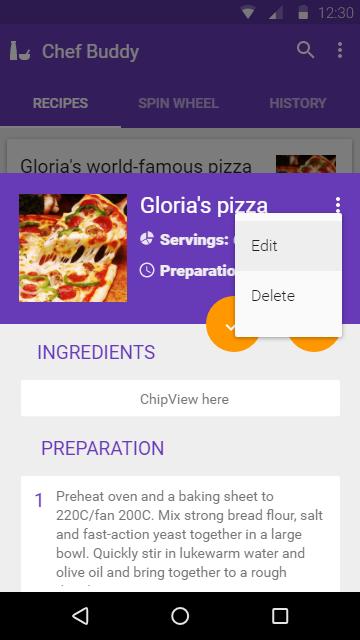
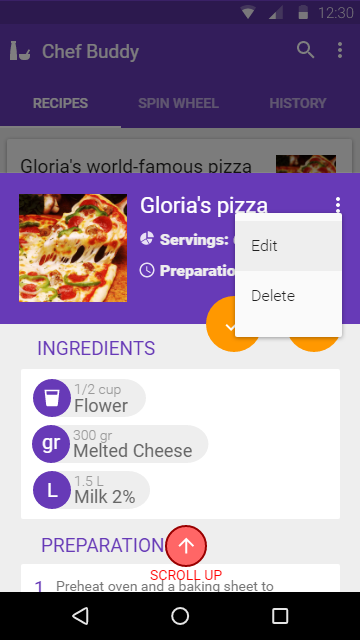
Recipe Detail: Menu layout, updated.

diff --git a/index.html b/index.html
@@ -1,2 +1,2 @@
 <html xmlns="http://www.w3.org/1999/xhtml" xmlns:p="http://www.evolus.vn/Namespace/Pencil" xmlns:html="http://www.w3.org/1999/xhtml"><head><meta http-equiv="Content-Type" content="text/html; charset=UTF-8" />
-<title>ChefBuddy v3</title><script type="text/javascript" src="Resources/Script.js"></script><link rel="stylesheet" type="text/css" href="Resources/Style.css" /><meta name="viewport" content="width=device-width, initial-scale=1, user-scalable=no, maximum-scale=1.0" /></head><body><div style="display: none;" id="page"><div id="content"><h1 id="documentTitle"><span>ChefBuddy v3</span></h1><div class="Page" id="home_recipes_page"><div class="Texts"><h2 class="Title">Home: Recipes</h2><p class="Note"></p><div>Home view. <br /><br />This page displays a list of recipes.</div><p></p></div><div class="Image"><img src="pages\home_recipes.png" width="360" height="641" usemap="#map_home_recipes" id="home_recipes_page_image" /><div class="ImageFooter"> </div><map name="map_home_recipes"><area shape="rect" coords="294.60009765625,523.6000366210938,350.60009765625,579.600036621094" href="#editadd_recipe_page" title="Go to page 'Edit/Add Recipe'" /><area shape="rect" coords="294,38,318,62" href="#home_recipes_search_page" title="Go to page 'Home: Recipes: Search'" /><area shape="rect" coords="328,38,352,62" href="#home_menu_page" title="Go to page 'Home: Menu'" /><area shape="rect" coords="0,80,360,128" href="#home_spin_wheel_page" title="Go to page 'Home: Spin wheel'" /><area shape="rect" coords="6,139,352.279998779297,352.919982910156" href="#recipe_detail_page" title="Go to page 'Recipe Detail'" /></map></div></div><div class="Page" id="home_recipes_search_page"><div class="Texts"><h2 class="Title">Home: Recipes: Search</h2><p class="Note"></p><div><div>Search page:<br /><br />A white ripple spawns from the center of where the search icon used to be, covering the Toolbar. The TabView dissapears. The app logo changes to a back arrow, "Search..." hint appears.</div><div>Keyboard is displayed. Snackbar/Toast appears saying: "Search by recipe name or ingredients"</div> </div><p></p></div><div class="Image"><img src="pages\home_recipes_search.png" width="360" height="640" usemap="#map_home_recipes_search" id="home_recipes_search_page_image" /><div class="ImageFooter"> </div><map name="map_home_recipes_search"><area shape="rect" coords="8,39,32,63" href="#home_recipes_page" title="Go to page 'Home: Recipes'" /></map></div></div><div class="Page" id="recipe_detail_page"><div class="Texts"><h2 class="Title">Recipe Detail</h2><p class="Note"></p><div> <div>Recipe detail page.<br /><br />Slides in from below, obscuring background, can be fully scrolled up.</div><div><br /><br /></div><div>Share button generates a pdf file, shareable through Whatsapp, Email.<br /><br /></div><div><br /><br /></div><div><div>Check Button hint: <span style="font-size: 9pt;">"Cooked this today". When clicked, records the recipe as it has been cooked the current day, also icon changes to an X.</span></div></div></div><p></p></div><div class="Image"><img src="pages\recipe_detail.png" width="360" height="640" usemap="#map_recipe_detail" id="recipe_detail_page_image" /><div class="ImageFooter"> </div><map name="map_recipe_detail"><area shape="rect" coords="166,526,206,566" href="#recipe_detail_2_page" title="Go to page 'Recipe Detail 2'" /><area shape="rect" coords="0,592,360,640" href="#home_recipes_page" title="Go to page 'Home: Recipes'" /><area shape="rect" coords="326,193,350,217" href="#recipe_detail_menu_page" title="Go to page 'Recipe Detail: Menu'" /><area shape="rect" coords="0,0.3052825927734375,360,172.937286376953" href="#home_recipes_page" title="Go to page 'Home: Recipes'" /></map></div></div><div class="Page" id="recipe_detail_2_page"><div class="Texts"><h2 class="Title">Recipe Detail 2</h2><p class="Note"></p><div> <div>Recipe detail page.<br /><br />Slides in from below, obscuring background, can be fully scrolled up.</div><div><br /><br /></div><div>Share button generates a pdf file, shareable through Whatsapp, Email.<br /><br /></div><div><br /><br /></div><div><div>Check Button hint: <span style="font-size: 9pt;">"Cooked this today". When clicked, records the recipe as it has been cooked the current day, also icon changes to an X.</span></div></div></div><p></p></div><div class="Image"><img src="pages\recipe_detail_2.png" width="360" height="640" usemap="#map_recipe_detail_2" id="recipe_detail_2_page_image" /><div class="ImageFooter"> </div><map name="map_recipe_detail_2"><area shape="rect" coords="171,214,211,254" href="#recipe_detail_page" title="Go to page 'Recipe Detail'" /><area shape="rect" coords="0,592,360,640" href="#recipe_detail_page" title="Go to page 'Recipe Detail'" /><area shape="rect" coords="326,44,350,68" href="#recipe_detail_menu_page" title="Go to page 'Recipe Detail: Menu'" /><area shape="rect" coords="35,299,325,429" href="#recipe_detail_view_image_page" title="Go to page 'Recipe Detail: View Image'" /></map></div></div><div class="Page" id="recipe_detail_view_image_page"><div class="Texts"><h2 class="Title">Recipe Detail: View Image</h2><p class="Note"></p><div> <div>Can zoom in/swipe right/left for next/prev image<br /><br /></div><div><br /><br /></div></div><p></p></div><div class="Image"><img src="pages\recipe_detail_view_image.png" width="360" height="640" usemap="#map_recipe_detail_view_image" id="recipe_detail_view_image_page_image" /><div class="ImageFooter"> </div><map name="map_recipe_detail_view_image"><area shape="rect" coords="0,592,360,640" href="#recipe_detail_2_page" title="Go to page 'Recipe Detail 2'" /><area shape="rect" coords="8,38,32,62" href="#recipe_detail_2_page" title="Go to page 'Recipe Detail 2'" /></map></div></div><div class="Page" id="recipe_detail_menu_page"><div class="Texts"><h2 class="Title">Recipe Detail: Menu</h2><p class="Note"></p><div> <div>Recipe detail toolbar menu.</div></div><p></p></div><div class="Image"><img src="pages\recipe_detail_menu.png" width="360" height="640" usemap="#map_recipe_detail_menu" id="recipe_detail_menu_page_image" /><div class="ImageFooter"> </div><map name="map_recipe_detail_menu"><area shape="rect" coords="235,213,342,337" href="#editadd_recipe_page" title="Go to page 'Edit/Add Recipe'" /><area shape="rect" coords="0,592,360,640" href="#recipe_detail_page" title="Go to page 'Recipe Detail'" /><area shape="rect" coords="1,110,359,603" href="#recipe_detail_page" title="Go to page 'Recipe Detail'" /></map></div></div><div class="Page" id="editadd_recipe_page"><div class="Texts"><h2 class="Title">Edit/Add Recipe</h2><p class="Note"></p><div> <div>Manual recipe add/edit page.</div><div><br /><br /></div><div><div>Chipview libraries: <span style="font-size: 9pt;">https://android-arsenal.com/tag/197</span></div><div>https://github.com/pchmn/MaterialChipsInput</div></div><div><br /><br /></div><div>UI: https://cdn.dribbble.com/users/60155/</div><div>screenshots/1750767/temp_dribbble.jpg<br /><br /></div></div><p></p></div><div class="Image"><img src="pages\editadd_recipe.png" width="360" height="640" usemap="#map_editadd_recipe" id="editadd_recipe_page_image" /><div class="ImageFooter"> </div><map name="map_editadd_recipe"><area shape="rect" coords="40,462,267.216003417969,500" href="#editadd_recipe_add_ingredient_page" title="Go to page 'Edit/Add Recipe: Add Ingredient'" /><area shape="rect" coords="162,520,202,560" href="#editadd_recipe_2_page" title="Go to page 'Edit/Add Recipe 2'" /><area shape="rect" coords="13,39,37,63" href="#recipe_detail_page" title="Go to page 'Recipe Detail'" /><area shape="rect" coords="321.240234375,38.89599609375,345.240234375,62.89599609375" href="#recipe_detail_page" title="Go to page 'Recipe Detail'" /></map></div></div><div class="Page" id="editadd_recipe_add_ingredient_page"><div class="Texts"><h2 class="Title">Edit/Add Recipe: Add Ingredient</h2><p class="Note"></p><div> <div>Manual recipe add/edit page.</div><div><br /><br /></div><div><div>Chipview libraries: <span style="font-size: 9pt;">https://android-arsenal.com/tag/197</span></div><div>https://github.com/pchmn/MaterialChipsInput</div></div><div><br /><br /></div><div>UI: https://cdn.dribbble.com/users/60155/</div><div>screenshots/1750767/temp_dribbble.jpg<br /><br /></div></div><p></p></div><div class="Image"><img src="pages\editadd_recipe_add_ingredient.png" width="360" height="640" usemap="#map_editadd_recipe_add_ingredient" id="editadd_recipe_add_ingredient_page_image" /><div class="ImageFooter"> </div><map name="map_editadd_recipe_add_ingredient"><area shape="rect" coords="0,24,360,600.799987792969" href="#editadd_recipe_page" title="Go to page 'Edit/Add Recipe'" /><area shape="rect" coords="162,520,202,560" href="#editadd_recipe_2_page" title="Go to page 'Edit/Add Recipe 2'" /><area shape="rect" coords="0,592,360,640" href="#editadd_recipe_page" title="Go to page 'Edit/Add Recipe'" /><area shape="rect" coords="13,39,37,63" href="#recipe_detail_page" title="Go to page 'Recipe Detail'" /><area shape="rect" coords="321.240234375,38.89599609375,345.240234375,62.89599609375" href="#recipe_detail_page" title="Go to page 'Recipe Detail'" /></map></div></div><div class="Page" id="editadd_recipe_2_page"><div class="Texts"><h2 class="Title">Edit/Add Recipe 2</h2><p class="Note"></p><div> <div>Manual recipe add/edit page.</div><div><br /><br /></div><div><div>Chipview libraries: <span style="font-size: 9pt;">https://android-arsenal.com/tag/197</span></div><div>https://github.com/pchmn/MaterialChipsInput</div></div><div><br /><br /></div><div>UI: https://cdn.dribbble.com/users/60155/</div><div>screenshots/1750767/temp_dribbble.jpg<br /><br /></div></div><p></p></div><div class="Image"><img src="pages\editadd_recipe_2.png" width="360" height="640" usemap="#map_editadd_recipe_2" id="editadd_recipe_2_page_image" /><div class="ImageFooter"> </div><map name="map_editadd_recipe_2"><area shape="rect" coords="0,592,360,640" href="#recipe_detail_page" title="Go to page 'Recipe Detail'" /><area shape="rect" coords="160,64,200,104" href="#editadd_recipe_page" title="Go to page 'Edit/Add Recipe'" /><area shape="rect" coords="232,527,328,563" href="#editadd_recipe_add_image_page" title="Go to page 'Edit/Add Recipe: Add Image'" /><area shape="rect" coords="13,39,37,63" href="#recipe_detail_page" title="Go to page 'Recipe Detail'" /><area shape="rect" coords="321.240234375,38.89599609375,345.240234375,62.89599609375" href="#recipe_detail_page" title="Go to page 'Recipe Detail'" /></map></div></div><div class="Page" id="editadd_recipe_add_image_page"><div class="Texts"><h2 class="Title">Edit/Add Recipe: Add Image</h2><p class="Note"></p><div> <div>Select camera/gallery dialog.</div></div><p></p></div><div class="Image"><img src="pages\editadd_recipe_add_image.png" width="360" height="640" usemap="#map_editadd_recipe_add_image" id="editadd_recipe_add_image_page_image" /><div class="ImageFooter"> </div><map name="map_editadd_recipe_add_image"><area shape="rect" coords="0,24,360,600.799987792969" href="#editadd_recipe_page" title="Go to page 'Edit/Add Recipe'" /><area shape="rect" coords="13,40,37,64" href="#recipe_detail_page" title="Go to page 'Recipe Detail'" /><area shape="rect" coords="321.239990234375,38.89599609375,345.239990234375,62.89599609375" href="#recipe_detail_page" title="Go to page 'Recipe Detail'" /><area shape="rect" coords="0,592,360,640" href="#editadd_recipe_page" title="Go to page 'Edit/Add Recipe'" /></map></div></div><div class="Page" id="home_menu_page"><div class="Texts"><h2 class="Title">Home: Menu</h2><p class="Note"></p><div>App toolbar menu</div><p></p></div><div class="Image"><img src="pages\home_menu.png" width="360" height="641" usemap="#map_home_menu" id="home_menu_page_image" /><div class="ImageFooter"> </div><map name="map_home_menu"><area shape="rect" coords="173,60,341,176" href="#settings_page" title="Go to page 'Settings'" /><area shape="rect" coords="0,80,360,128" href="#home_spin_wheel_page" title="Go to page 'Home: Spin wheel'" /><area shape="rect" coords="1,1,358.640014648438,639.039978027344" href="#home_recipes_page" title="Go to page 'Home: Recipes'" /></map></div></div><div class="Page" id="home_spin_wheel_page"><div class="Texts"><h2 class="Title">Home: Spin wheel</h2><p class="Note"></p><div>This page displays a wheel containing recipes, when activated, the wheel spins and randomly selects a recipe.<br /><br />The recipes can be edited. <br /><br />Max 10 recipes. </div><p></p></div><div class="Image"><img src="pages\home_spin_wheel.png" width="360" height="647" usemap="#map_home_spin_wheel" id="home_spin_wheel_page_image" /><div class="ImageFooter"> </div><map name="map_home_spin_wheel"><area shape="rect" coords="329,237,353,261" href="#home_spinwheel_edit_page" title="Go to page 'Home: Spinwheel: Edit'" /><area shape="rect" coords="0,172,360,220" href="#home_history_page" title="Go to page 'Home: History'" /></map></div></div><div class="Page" id="home_spinwheel_edit_page"><div class="Texts"><h2 class="Title">Home: Spinwheel: Edit</h2><p class="Note"></p><div>Tapping on the Edit button opens a dialog where the recipes in the spinwheel can be set. This number should be limited to a max amount (10 recipes max?) <br /><br /><br /><br /><div>https://github.com/LukeDeighton/WheelView</div><div>https://code.tutsplus.com/tutorials/android-sdk-creating-a-rotating-dialer--mobile-8868</div></div><p></p></div><div class="Image"><img src="pages\home_spinwheel_edit.png" width="361" height="647" usemap="#map_home_spinwheel_edit" id="home_spinwheel_edit_page_image" /><div class="ImageFooter"> </div><map name="map_home_spinwheel_edit"><area shape="rect" coords="1,2,361,600" href="#home_spin_wheel_page" title="Go to page 'Home: Spin wheel'" /><area shape="rect" coords="330,237,354,261" href="#home_spinwheel_edit_page" title="Go to page 'Home: Spinwheel: Edit'" /><area shape="rect" coords="1,172,361,220" href="#home_history_page" title="Go to page 'Home: History'" /></map></div></div><div class="Page" id="home_history_page"><div class="Texts"><h2 class="Title">Home: History</h2><p class="Note"></p><div>This page displays a calendar which shows the recipes made each day.<div><br /><br /><div>CALENDAR: https://www.prolificinteractive.com/2015/02/17/material-calendarview/</div><div>https://github.com/prolificinteractive/material-calendarview</div><div><br /><br /></div><div>NOTE: Calendar card background should be white #FFF</div></div></div><p></p></div><div class="Image"><img src="pages\home_history.png" width="360" height="647" usemap="#map_home_history" id="home_history_page_image" /><div class="ImageFooter"> </div><map name="map_home_history"><area shape="rect" coords="210,336,258,384" href="#home_history_day_detail_page" title="Go to page 'Home: History: Day detail'" /><area shape="rect" coords="158,336,206,384" href="#home_history_set_recipe_page" title="Go to page 'Home: History: Set Recipe'" /><area shape="rect" coords="0,172,360,220" href="#home_recipes_page" title="Go to page 'Home: Recipes'" /></map></div></div><div class="Page" id="home_history_day_detail_page"><div class="Texts"><h2 class="Title">Home: History: Day detail</h2><p class="Note"></p><div>Tapping on a day when a recipe had been cooked. Circular expansion animation occurs, image should be blurry.. or with a frosted-like effect?</div><p></p></div><div class="Image"><img src="pages\home_history_day_detail.png" width="360" height="647" usemap="#map_home_history_day_detail" id="home_history_day_detail_page_image" /><div class="ImageFooter"> </div><map name="map_home_history_day_detail"><area shape="rect" coords="0,599,360,647" href="#home_history_page" title="Go to page 'Home: History'" /><area shape="rect" coords="291,285,315,309" href="#home_history_set_recipe_page" title="Go to page 'Home: History: Set Recipe'" /><area shape="rect" coords="210,336,258,384" href="#home_history_day_detail_page" title="Go to page 'Home: History: Day detail'" /><area shape="rect" coords="158,336,206,384" href="#home_history_set_recipe_page" title="Go to page 'Home: History: Set Recipe'" /><area shape="rect" coords="0,172,360,220" href="#home_recipes_page" title="Go to page 'Home: Recipes'" /><area shape="rect" coords="0,0,360,220" href="#home_history_page" title="Go to page 'Home: History'" /><area shape="rect" coords="1,1,358.640014648438,639.039978027344" href="#home_history_page" title="Go to page 'Home: History'" /></map></div></div><div class="Page" id="home_history_set_recipe_page"><div class="Texts"><h2 class="Title">Home: History: Set Recipe</h2><p class="Note"></p><div>Set/Edit a Recipe on a specific day</div><p></p></div><div class="Image"><img src="pages\home_history_set_recipe.png" width="360" height="647" usemap="#map_home_history_set_recipe" id="home_history_set_recipe_page_image" /><div class="ImageFooter"> </div><map name="map_home_history_set_recipe"><area shape="rect" coords="0,599,360,647" href="#home_history_page" title="Go to page 'Home: History'" /><area shape="rect" coords="0,0,360,611.799987792969" href="#home_history_page" title="Go to page 'Home: History'" /><area shape="rect" coords="210,336,258,384" href="#home_history_day_detail_page" title="Go to page 'Home: History: Day detail'" /><area shape="rect" coords="158,336,206,384" href="#home_history_set_recipe_page" title="Go to page 'Home: History: Set Recipe'" /><area shape="rect" coords="0,172,360,220" href="#home_recipes_page" title="Go to page 'Home: Recipes'" /></map></div></div><div class="Page" id="settings_page"><div class="Texts"><h2 class="Title">Settings</h2><p class="Note"></p><div>Cheff Buddy Settings page</div><p></p></div><div class="Image"><img src="pages\settings.png" width="360" height="641" usemap="#map_settings" id="settings_page_image" /><div class="ImageFooter"> </div><map name="map_settings"><area shape="rect" coords="16,41,40,65" href="#home_recipes_page" title="Go to page 'Home: Recipes'" /><area shape="rect" coords="16,98.921875,207,120.921875" href="#settings_backup_page" title="Go to page 'Settings: Backup'" /><area shape="rect" coords="0,592.921875,360,640.921875" href="#home_recipes_page" title="Go to page 'Home: Recipes'" /></map></div></div><div class="Page" id="settings_backup_page"><div class="Texts"><h2 class="Title">Settings: Backup</h2><p class="Note"></p><div>Settings for backing up app data.<div><br /><br /></div><div>Local backups will occur daily.<br /><br />Google drive cloud-based backups can be configured -off by default- to occur daily, weekly or monthly.<br /><br />Google drive backups can be set to occur only over Wi-Fi.</div></div><p></p></div><div class="Image"><img src="pages\settings_backup.png" width="360" height="644" usemap="#map_settings_backup" id="settings_backup_page_image" /><div class="ImageFooter"> </div><map name="map_settings_backup"><area shape="rect" coords="15,40,39,64" href="#settings_page" title="Go to page 'Settings'" /><area shape="rect" coords="0,595.921875,360,643.921875" href="#settings_page" title="Go to page 'Settings'" /></map></div></div><div id="navigator"><div class="NavLink" id="prevLink"><div class="Wrapper"><a href="#"> </a></div></div><div class="NavLink NavNextLink" id="nextLink"><div class="Wrapper"><a href="#"> </a></div></div></div></div><div id="footer"></div></div></body></html>
+<title>ChefBuddy v3</title><script type="text/javascript" src="Resources/Script.js"></script><link rel="stylesheet" type="text/css" href="Resources/Style.css" /><meta name="viewport" content="width=device-width, initial-scale=1, user-scalable=no, maximum-scale=1.0" /></head><body><div style="display: none;" id="page"><div id="content"><h1 id="documentTitle"><span>ChefBuddy v3</span></h1><div class="Page" id="home_recipes_page"><div class="Texts"><h2 class="Title">Home: Recipes</h2><p class="Note"></p><div>Home view. <br /><br />This page displays a list of recipes.</div><p></p></div><div class="Image"><img src="pages\home_recipes.png" width="360" height="641" usemap="#map_home_recipes" id="home_recipes_page_image" /><div class="ImageFooter"> </div><map name="map_home_recipes"><area shape="rect" coords="294.60009765625,523.6000366210938,350.60009765625,579.600036621094" href="#editadd_recipe_page" title="Go to page 'Edit/Add Recipe'" /><area shape="rect" coords="294,38,318,62" href="#home_recipes_search_page" title="Go to page 'Home: Recipes: Search'" /><area shape="rect" coords="328,38,352,62" href="#home_menu_page" title="Go to page 'Home: Menu'" /><area shape="rect" coords="0,80,360,128" href="#home_spin_wheel_page" title="Go to page 'Home: Spin wheel'" /><area shape="rect" coords="6,139,352.279998779297,352.919982910156" href="#recipe_detail_page" title="Go to page 'Recipe Detail'" /></map></div></div><div class="Page" id="home_recipes_search_page"><div class="Texts"><h2 class="Title">Home: Recipes: Search</h2><p class="Note"></p><div><div>Search page:<br /><br />A white ripple spawns from the center of where the search icon used to be, covering the Toolbar. The TabView dissapears. The app logo changes to a back arrow, "Search..." hint appears.</div><div>Keyboard is displayed. Snackbar/Toast appears saying: "Search by recipe name or ingredients"</div> </div><p></p></div><div class="Image"><img src="pages\home_recipes_search.png" width="360" height="640" usemap="#map_home_recipes_search" id="home_recipes_search_page_image" /><div class="ImageFooter"> </div><map name="map_home_recipes_search"><area shape="rect" coords="8,39,32,63" href="#home_recipes_page" title="Go to page 'Home: Recipes'" /></map></div></div><div class="Page" id="recipe_detail_page"><div class="Texts"><h2 class="Title">Recipe Detail</h2><p class="Note"></p><div> <div>Recipe detail page.<br /><br />Slides in from below, obscuring background, can be fully scrolled up.</div><div><br /><br /></div><div>Share button generates a pdf file, shareable through Whatsapp, Email.<br /><br /></div><div><br /><br /></div><div><div>Check Button hint: <span style="font-size: 9pt;">"Cooked this today". When clicked, records the recipe as it has been cooked the current day, also icon changes to an X.</span></div></div></div><p></p></div><div class="Image"><img src="pages\recipe_detail.png" width="360" height="640" usemap="#map_recipe_detail" id="recipe_detail_page_image" /><div class="ImageFooter"> </div><map name="map_recipe_detail"><area shape="rect" coords="166,526,206,566" href="#recipe_detail_2_page" title="Go to page 'Recipe Detail 2'" /><area shape="rect" coords="0,592,360,640" href="#home_recipes_page" title="Go to page 'Home: Recipes'" /><area shape="rect" coords="326,193,350,217" href="#recipe_detail_menu_page" title="Go to page 'Recipe Detail: Menu'" /><area shape="rect" coords="0,0.3052825927734375,360,172.937286376953" href="#home_recipes_page" title="Go to page 'Home: Recipes'" /></map></div></div><div class="Page" id="recipe_detail_2_page"><div class="Texts"><h2 class="Title">Recipe Detail 2</h2><p class="Note"></p><div> <div>Recipe detail page.<br /><br />Slides in from below, obscuring background, can be fully scrolled up.</div><div><br /><br /></div><div>Share button generates a pdf file, shareable through Whatsapp, Email.<br /><br /></div><div><br /><br /></div><div><div>Check Button hint: <span style="font-size: 9pt;">"Cooked this today". When clicked, records the recipe as it has been cooked the current day, also icon changes to an X.</span></div></div></div><p></p></div><div class="Image"><img src="pages\recipe_detail_2.png" width="360" height="640" usemap="#map_recipe_detail_2" id="recipe_detail_2_page_image" /><div class="ImageFooter"> </div><map name="map_recipe_detail_2"><area shape="rect" coords="171,214,211,254" href="#recipe_detail_page" title="Go to page 'Recipe Detail'" /><area shape="rect" coords="0,592,360,640" href="#recipe_detail_page" title="Go to page 'Recipe Detail'" /><area shape="rect" coords="326,44,350,68" href="#recipe_detail_menu_page" title="Go to page 'Recipe Detail: Menu'" /><area shape="rect" coords="35,299,325,429" href="#recipe_detail_view_image_page" title="Go to page 'Recipe Detail: View Image'" /></map></div></div><div class="Page" id="recipe_detail_view_image_page"><div class="Texts"><h2 class="Title">Recipe Detail: View Image</h2><p class="Note"></p><div> <div>Can zoom in/swipe right/left for next/prev image<br /><br /></div><div><br /><br /></div></div><p></p></div><div class="Image"><img src="pages\recipe_detail_view_image.png" width="360" height="640" usemap="#map_recipe_detail_view_image" id="recipe_detail_view_image_page_image" /><div class="ImageFooter"> </div><map name="map_recipe_detail_view_image"><area shape="rect" coords="0,592,360,640" href="#recipe_detail_2_page" title="Go to page 'Recipe Detail 2'" /><area shape="rect" coords="8,38,32,62" href="#recipe_detail_2_page" title="Go to page 'Recipe Detail 2'" /></map></div></div><div class="Page" id="recipe_detail_menu_page"><div class="Texts"><h2 class="Title">Recipe Detail: Menu</h2><p class="Note"></p><div> <div>Recipe detail toolbar menu.</div></div><p></p></div><div class="Image"><img src="pages\recipe_detail_menu.png" width="360" height="640" usemap="#map_recipe_detail_menu" id="recipe_detail_menu_page_image" /><div class="ImageFooter"> </div><map name="map_recipe_detail_menu"><area shape="rect" coords="235,213,342,337" href="#editadd_recipe_page" title="Go to page 'Edit/Add Recipe'" /><area shape="rect" coords="166,526,206,566" href="#recipe_detail_2_page" title="Go to page 'Recipe Detail 2'" /><area shape="rect" coords="0,592,360,640" href="#home_recipes_page" title="Go to page 'Home: Recipes'" /><area shape="rect" coords="326,193,350,217" href="#recipe_detail_menu_page" title="Go to page 'Recipe Detail: Menu'" /><area shape="rect" coords="0,0.3052825927734375,360,172.937286376953" href="#home_recipes_page" title="Go to page 'Home: Recipes'" /></map></div></div><div class="Page" id="editadd_recipe_page"><div class="Texts"><h2 class="Title">Edit/Add Recipe</h2><p class="Note"></p><div> <div>Manual recipe add/edit page.</div><div><br /><br /></div><div><div>Chipview libraries: <span style="font-size: 9pt;">https://android-arsenal.com/tag/197</span></div><div>https://github.com/pchmn/MaterialChipsInput</div></div><div><br /><br /></div><div>UI: https://cdn.dribbble.com/users/60155/</div><div>screenshots/1750767/temp_dribbble.jpg<br /><br /></div></div><p></p></div><div class="Image"><img src="pages\editadd_recipe.png" width="360" height="640" usemap="#map_editadd_recipe" id="editadd_recipe_page_image" /><div class="ImageFooter"> </div><map name="map_editadd_recipe"><area shape="rect" coords="40,462,267.216003417969,500" href="#editadd_recipe_add_ingredient_page" title="Go to page 'Edit/Add Recipe: Add Ingredient'" /><area shape="rect" coords="162,520,202,560" href="#editadd_recipe_2_page" title="Go to page 'Edit/Add Recipe 2'" /><area shape="rect" coords="13,39,37,63" href="#recipe_detail_page" title="Go to page 'Recipe Detail'" /><area shape="rect" coords="321.240234375,38.89599609375,345.240234375,62.89599609375" href="#recipe_detail_page" title="Go to page 'Recipe Detail'" /></map></div></div><div class="Page" id="editadd_recipe_add_ingredient_page"><div class="Texts"><h2 class="Title">Edit/Add Recipe: Add Ingredient</h2><p class="Note"></p><div> <div>Manual recipe add/edit page.</div><div><br /><br /></div><div><div>Chipview libraries: <span style="font-size: 9pt;">https://android-arsenal.com/tag/197</span></div><div>https://github.com/pchmn/MaterialChipsInput</div></div><div><br /><br /></div><div>UI: https://cdn.dribbble.com/users/60155/</div><div>screenshots/1750767/temp_dribbble.jpg<br /><br /></div></div><p></p></div><div class="Image"><img src="pages\editadd_recipe_add_ingredient.png" width="360" height="640" usemap="#map_editadd_recipe_add_ingredient" id="editadd_recipe_add_ingredient_page_image" /><div class="ImageFooter"> </div><map name="map_editadd_recipe_add_ingredient"><area shape="rect" coords="0,24,360,600.799987792969" href="#editadd_recipe_page" title="Go to page 'Edit/Add Recipe'" /><area shape="rect" coords="162,520,202,560" href="#editadd_recipe_2_page" title="Go to page 'Edit/Add Recipe 2'" /><area shape="rect" coords="0,592,360,640" href="#editadd_recipe_page" title="Go to page 'Edit/Add Recipe'" /><area shape="rect" coords="13,39,37,63" href="#recipe_detail_page" title="Go to page 'Recipe Detail'" /><area shape="rect" coords="321.240234375,38.89599609375,345.240234375,62.89599609375" href="#recipe_detail_page" title="Go to page 'Recipe Detail'" /></map></div></div><div class="Page" id="editadd_recipe_2_page"><div class="Texts"><h2 class="Title">Edit/Add Recipe 2</h2><p class="Note"></p><div> <div>Manual recipe add/edit page.</div><div><br /><br /></div><div><div>Chipview libraries: <span style="font-size: 9pt;">https://android-arsenal.com/tag/197</span></div><div>https://github.com/pchmn/MaterialChipsInput</div></div><div><br /><br /></div><div>UI: https://cdn.dribbble.com/users/60155/</div><div>screenshots/1750767/temp_dribbble.jpg<br /><br /></div></div><p></p></div><div class="Image"><img src="pages\editadd_recipe_2.png" width="360" height="640" usemap="#map_editadd_recipe_2" id="editadd_recipe_2_page_image" /><div class="ImageFooter"> </div><map name="map_editadd_recipe_2"><area shape="rect" coords="0,592,360,640" href="#recipe_detail_page" title="Go to page 'Recipe Detail'" /><area shape="rect" coords="160,64,200,104" href="#editadd_recipe_page" title="Go to page 'Edit/Add Recipe'" /><area shape="rect" coords="232,527,328,563" href="#editadd_recipe_add_image_page" title="Go to page 'Edit/Add Recipe: Add Image'" /><area shape="rect" coords="13,39,37,63" href="#recipe_detail_page" title="Go to page 'Recipe Detail'" /><area shape="rect" coords="321.240234375,38.89599609375,345.240234375,62.89599609375" href="#recipe_detail_page" title="Go to page 'Recipe Detail'" /></map></div></div><div class="Page" id="editadd_recipe_add_image_page"><div class="Texts"><h2 class="Title">Edit/Add Recipe: Add Image</h2><p class="Note"></p><div> <div>Select camera/gallery dialog.</div></div><p></p></div><div class="Image"><img src="pages\editadd_recipe_add_image.png" width="360" height="640" usemap="#map_editadd_recipe_add_image" id="editadd_recipe_add_image_page_image" /><div class="ImageFooter"> </div><map name="map_editadd_recipe_add_image"><area shape="rect" coords="0,24,360,600.799987792969" href="#editadd_recipe_page" title="Go to page 'Edit/Add Recipe'" /><area shape="rect" coords="13,40,37,64" href="#recipe_detail_page" title="Go to page 'Recipe Detail'" /><area shape="rect" coords="321.239990234375,38.89599609375,345.239990234375,62.89599609375" href="#recipe_detail_page" title="Go to page 'Recipe Detail'" /><area shape="rect" coords="0,592,360,640" href="#editadd_recipe_page" title="Go to page 'Edit/Add Recipe'" /></map></div></div><div class="Page" id="home_menu_page"><div class="Texts"><h2 class="Title">Home: Menu</h2><p class="Note"></p><div>App toolbar menu</div><p></p></div><div class="Image"><img src="pages\home_menu.png" width="360" height="641" usemap="#map_home_menu" id="home_menu_page_image" /><div class="ImageFooter"> </div><map name="map_home_menu"><area shape="rect" coords="173,60,341,176" href="#settings_page" title="Go to page 'Settings'" /><area shape="rect" coords="0,80,360,128" href="#home_spin_wheel_page" title="Go to page 'Home: Spin wheel'" /><area shape="rect" coords="1,1,358.640014648438,639.039978027344" href="#home_recipes_page" title="Go to page 'Home: Recipes'" /></map></div></div><div class="Page" id="home_spin_wheel_page"><div class="Texts"><h2 class="Title">Home: Spin wheel</h2><p class="Note"></p><div>This page displays a wheel containing recipes, when activated, the wheel spins and randomly selects a recipe.<br /><br />The recipes can be edited. <br /><br />Max 10 recipes. </div><p></p></div><div class="Image"><img src="pages\home_spin_wheel.png" width="360" height="647" usemap="#map_home_spin_wheel" id="home_spin_wheel_page_image" /><div class="ImageFooter"> </div><map name="map_home_spin_wheel"><area shape="rect" coords="329,237,353,261" href="#home_spinwheel_edit_page" title="Go to page 'Home: Spinwheel: Edit'" /><area shape="rect" coords="0,172,360,220" href="#home_history_page" title="Go to page 'Home: History'" /></map></div></div><div class="Page" id="home_spinwheel_edit_page"><div class="Texts"><h2 class="Title">Home: Spinwheel: Edit</h2><p class="Note"></p><div>Tapping on the Edit button opens a dialog where the recipes in the spinwheel can be set. This number should be limited to a max amount (10 recipes max?) <br /><br /><br /><br /><div>https://github.com/LukeDeighton/WheelView</div><div>https://code.tutsplus.com/tutorials/android-sdk-creating-a-rotating-dialer--mobile-8868</div></div><p></p></div><div class="Image"><img src="pages\home_spinwheel_edit.png" width="361" height="647" usemap="#map_home_spinwheel_edit" id="home_spinwheel_edit_page_image" /><div class="ImageFooter"> </div><map name="map_home_spinwheel_edit"><area shape="rect" coords="1,2,361,600" href="#home_spin_wheel_page" title="Go to page 'Home: Spin wheel'" /><area shape="rect" coords="330,237,354,261" href="#home_spinwheel_edit_page" title="Go to page 'Home: Spinwheel: Edit'" /><area shape="rect" coords="1,172,361,220" href="#home_history_page" title="Go to page 'Home: History'" /></map></div></div><div class="Page" id="home_history_page"><div class="Texts"><h2 class="Title">Home: History</h2><p class="Note"></p><div>This page displays a calendar which shows the recipes made each day.<div><br /><br /><div>CALENDAR: https://www.prolificinteractive.com/2015/02/17/material-calendarview/</div><div>https://github.com/prolificinteractive/material-calendarview</div><div><br /><br /></div><div>NOTE: Calendar card background should be white #FFF</div></div></div><p></p></div><div class="Image"><img src="pages\home_history.png" width="360" height="647" usemap="#map_home_history" id="home_history_page_image" /><div class="ImageFooter"> </div><map name="map_home_history"><area shape="rect" coords="210,336,258,384" href="#home_history_day_detail_page" title="Go to page 'Home: History: Day detail'" /><area shape="rect" coords="158,336,206,384" href="#home_history_set_recipe_page" title="Go to page 'Home: History: Set Recipe'" /><area shape="rect" coords="0,172,360,220" href="#home_recipes_page" title="Go to page 'Home: Recipes'" /></map></div></div><div class="Page" id="home_history_day_detail_page"><div class="Texts"><h2 class="Title">Home: History: Day detail</h2><p class="Note"></p><div>Tapping on a day when a recipe had been cooked. Circular expansion animation occurs, image should be blurry.. or with a frosted-like effect?</div><p></p></div><div class="Image"><img src="pages\home_history_day_detail.png" width="360" height="647" usemap="#map_home_history_day_detail" id="home_history_day_detail_page_image" /><div class="ImageFooter"> </div><map name="map_home_history_day_detail"><area shape="rect" coords="0,599,360,647" href="#home_history_page" title="Go to page 'Home: History'" /><area shape="rect" coords="291,285,315,309" href="#home_history_set_recipe_page" title="Go to page 'Home: History: Set Recipe'" /><area shape="rect" coords="210,336,258,384" href="#home_history_day_detail_page" title="Go to page 'Home: History: Day detail'" /><area shape="rect" coords="158,336,206,384" href="#home_history_set_recipe_page" title="Go to page 'Home: History: Set Recipe'" /><area shape="rect" coords="0,172,360,220" href="#home_recipes_page" title="Go to page 'Home: Recipes'" /><area shape="rect" coords="0,0,360,220" href="#home_history_page" title="Go to page 'Home: History'" /><area shape="rect" coords="1,1,358.640014648438,639.039978027344" href="#home_history_page" title="Go to page 'Home: History'" /></map></div></div><div class="Page" id="home_history_set_recipe_page"><div class="Texts"><h2 class="Title">Home: History: Set Recipe</h2><p class="Note"></p><div>Set/Edit a Recipe on a specific day</div><p></p></div><div class="Image"><img src="pages\home_history_set_recipe.png" width="360" height="647" usemap="#map_home_history_set_recipe" id="home_history_set_recipe_page_image" /><div class="ImageFooter"> </div><map name="map_home_history_set_recipe"><area shape="rect" coords="0,599,360,647" href="#home_history_page" title="Go to page 'Home: History'" /><area shape="rect" coords="0,0,360,611.799987792969" href="#home_history_page" title="Go to page 'Home: History'" /><area shape="rect" coords="210,336,258,384" href="#home_history_day_detail_page" title="Go to page 'Home: History: Day detail'" /><area shape="rect" coords="158,336,206,384" href="#home_history_set_recipe_page" title="Go to page 'Home: History: Set Recipe'" /><area shape="rect" coords="0,172,360,220" href="#home_recipes_page" title="Go to page 'Home: Recipes'" /></map></div></div><div class="Page" id="settings_page"><div class="Texts"><h2 class="Title">Settings</h2><p class="Note"></p><div>Cheff Buddy Settings page</div><p></p></div><div class="Image"><img src="pages\settings.png" width="360" height="641" usemap="#map_settings" id="settings_page_image" /><div class="ImageFooter"> </div><map name="map_settings"><area shape="rect" coords="16,41,40,65" href="#home_recipes_page" title="Go to page 'Home: Recipes'" /><area shape="rect" coords="16,98.921875,207,120.921875" href="#settings_backup_page" title="Go to page 'Settings: Backup'" /><area shape="rect" coords="0,592.921875,360,640.921875" href="#home_recipes_page" title="Go to page 'Home: Recipes'" /></map></div></div><div class="Page" id="settings_backup_page"><div class="Texts"><h2 class="Title">Settings: Backup</h2><p class="Note"></p><div>Settings for backing up app data.<div><br /><br /></div><div>Local backups will occur daily.<br /><br />Google drive cloud-based backups can be configured -off by default- to occur daily, weekly or monthly.<br /><br />Google drive backups can be set to occur only over Wi-Fi.</div></div><p></p></div><div class="Image"><img src="pages\settings_backup.png" width="360" height="644" usemap="#map_settings_backup" id="settings_backup_page_image" /><div class="ImageFooter"> </div><map name="map_settings_backup"><area shape="rect" coords="15,40,39,64" href="#settings_page" title="Go to page 'Settings'" /><area shape="rect" coords="0,595.921875,360,643.921875" href="#settings_page" title="Go to page 'Settings'" /></map></div></div><div id="navigator"><div class="NavLink" id="prevLink"><div class="Wrapper"><a href="#"> </a></div></div><div class="NavLink NavNextLink" id="nextLink"><div class="Wrapper"><a href="#"> </a></div></div></div></div><div id="footer"></div></div></body></html>
